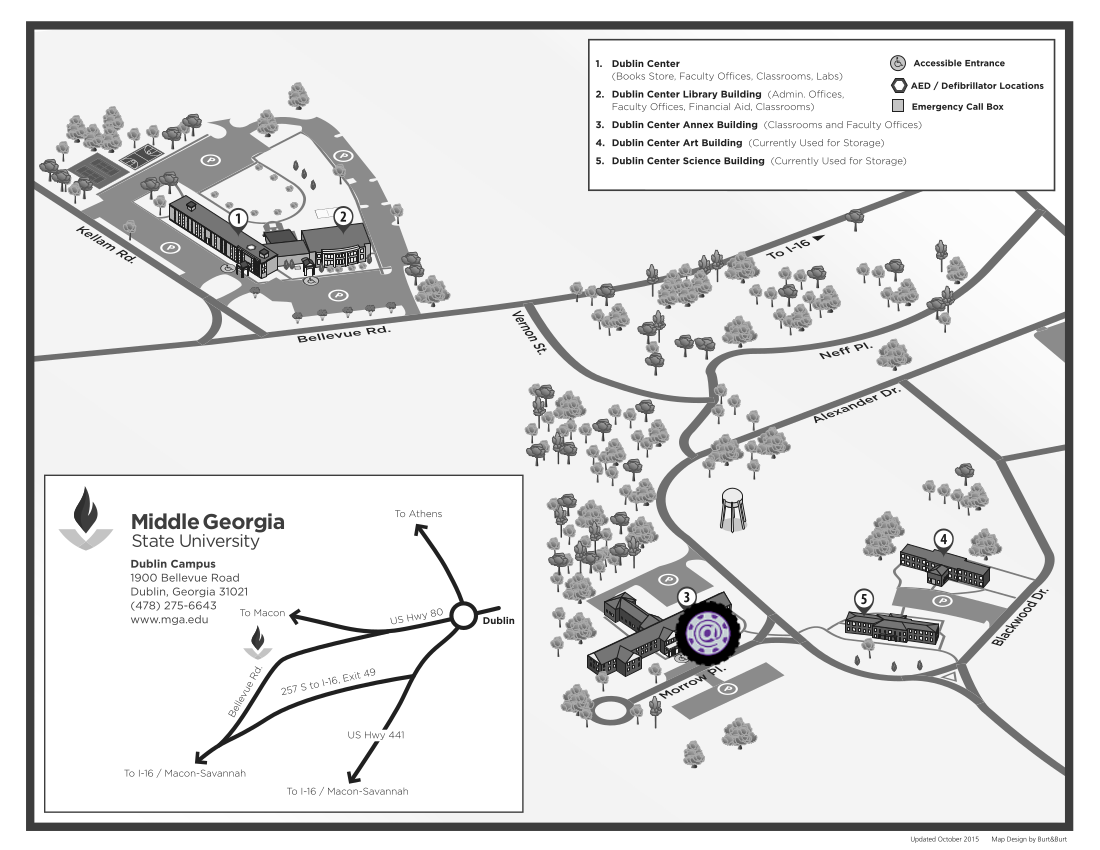
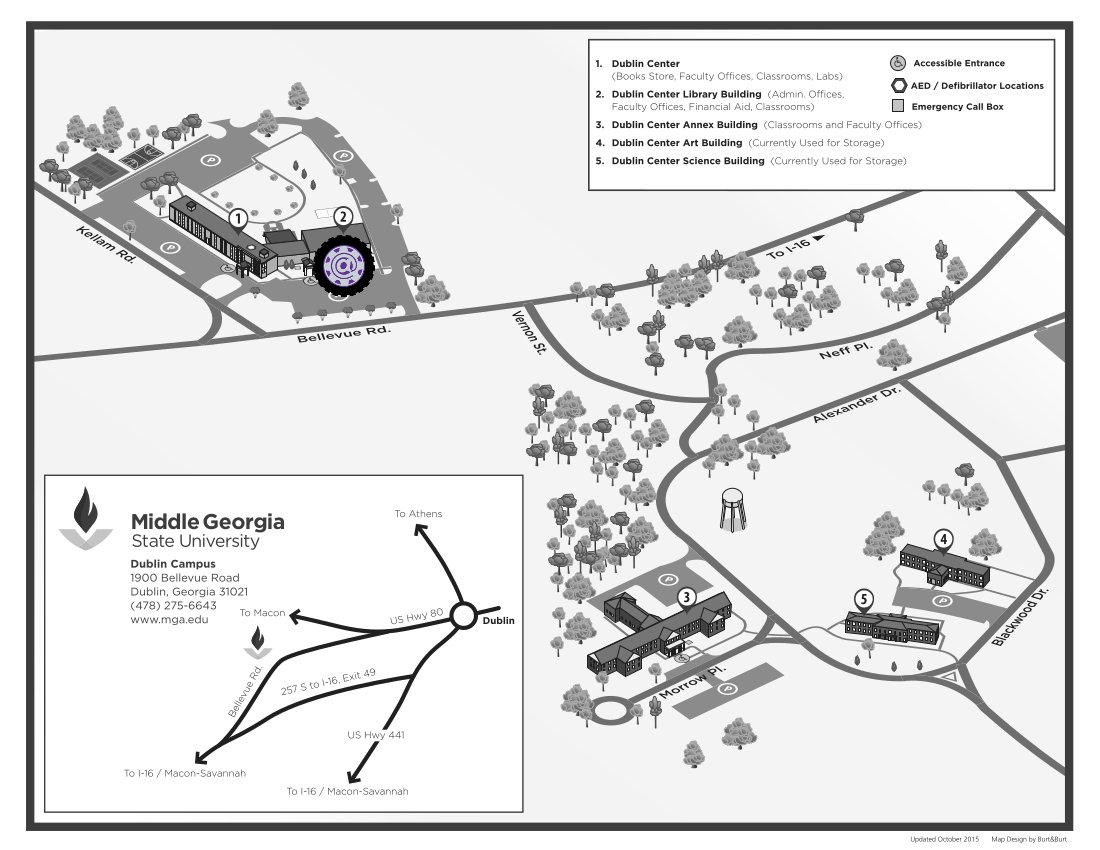
map changes and other small fixes

Changed region(s): [[0.5873, 0.7035, 0.68, 0.7953], [0.2782, 0.2753, 0.34, 0.3671]]

diff --git a/styles/style.css b/styles/style.css
@@ -300,6 +300,10 @@ table{
   table-layout: fixed; 
   overflow-x:auto;
 }
+img {
+    max-width: 100%;
+    height: auto;
+}
 
 
 

diff --git a/dropoffpoints.php b/dropoffpoints.php
@@ -57,11 +57,11 @@
       
               <h5  class="welcomeHeader"> Memorial Hall and Alderman Hall, <br> Cochran </h5>
               <img id="cochranLittleMap" src="images/maps/cochranmap.png" alt="Cochran Campus" width="800" height="700" data-toggle="modal" data-target="#cochranModal">
-              <h5  class="welcomeHeader"> Dublin Center Annex Building,<br> Dublin </h5>
+              <h5  class="welcomeHeader"> Dublin Center Library Building,<br> Dublin </h5>
               <img id="dublinLittleMap" src="images/maps/dublinmap.png" alt="Dublin Campus" width="300" height="200" data-toggle="modal" data-target="#dublinModal">
              </div>
               <div class="col-sm-4 col-xs-4">
-              <h5  class="welcomeHeader"> Corporate Hangar,<br> Eastman</h5>
+              <h5  class="welcomeHeader"> Main Campus,<br> Eastman</h5>
               <img id="eastmanLittleMap" src="images/maps/eastmanmap.png" alt="Eastman Campus" width="300" height="200" data-toggle="modal" data-target="#eastmanModal">
               <h5  class="welcomeHeader"> Charles H. Jones and Student Life Center, Macon</h5>
               <img id="maconLittleMap" src="images/maps/maconmap.png" alt="Macon Campus" width="300" height="200" data-toggle="modal" data-target="#maconModal">
@@ -103,7 +103,7 @@
                 <div class="modal-body">
                   <h1 class="text-center">Dublin Campus:</h1><br>
                   <img class="modal-content" id="dublinBigMap" src="images/maps/dublinmap.png">
-                  <h1 class="text-center">Dublin Center Annex Building, Dublin Campus</h1><br>
+                  <h1 class="text-center">Dublin Center Library Building, Dublin Campus</h1><br>
                   <img src="images/ridesharelocations/dublinmeeting.jpg" alt="Dublin Center Annex Building">
                 </div>
               </div>
@@ -120,7 +120,7 @@
                 <div class="modal-body">
                   <h1 class="text-center">Eastman Campus:</h1><br>
                   <img class="modal-content" id="eastmanBigMap" src="images/maps/eastmanmap.png">
-                  <h1 class="text-center">Corporate Hangar, Eastman Campus</h1><br>
+                  <h1 class="text-center">Main Campus, Eastman Campus</h1><br>
                   <img src="images/ridesharelocations/eastmanmeeting.jpg" alt="Eastman">
                 </div>
               </div>
@@ -168,7 +168,7 @@
         <div id="footer" class="text-center center">
             <hr>
             Copyright &copy; 2017 Knight Rider<br>
-            Website Development by <a href="mailto:MGAKnightRiders@mga.edu">Knight Rider</a>
+            Website Development by <a href="mailto:mgaknightriders@gmail.com">Knight Rider</a>
         </div>
 
     </div></div>

diff --git a/help.php b/help.php
@@ -51,11 +51,11 @@
       
               <h5  class="welcomeHeader"> Memorial Hall and Alderman Hall, <br> Cochran </h5>
               <img id="cochranLittleMap" src="images/maps/cochranmap.png" alt="Cochran Campus" width="800" height="700" data-toggle="modal" data-target="#cochranModal">
-              <h5  class="welcomeHeader"> Dublin Center Annex Building,<br> Dublin </h5>
+              <h5  class="welcomeHeader"> Dublin Center Library Building,<br> Dublin </h5>
               <img id="dublinLittleMap" src="images/maps/dublinmap.png" alt="Dublin Campus" width="300" height="200" data-toggle="modal" data-target="#dublinModal">
              </div>
               <div class="col-sm-4 col-xs-4">
-              <h5  class="welcomeHeader"> Corporate Hangar,<br> Eastman</h5>
+              <h5  class="welcomeHeader"> Main Campus,<br> Eastman</h5>
               <img id="eastmanLittleMap" src="images/maps/eastmanmap.png" alt="Eastman Campus" width="300" height="200" data-toggle="modal" data-target="#eastmanModal">
               <h5  class="welcomeHeader"> Charles H. Jones and Student Life Center, Macon</h5>
               <img id="maconLittleMap" src="images/maps/maconmap.png" alt="Macon Campus" width="300" height="200" data-toggle="modal" data-target="#maconModal">
@@ -97,7 +97,7 @@
                 <div class="modal-body">
                   <h1 class="text-center">Dublin Campus:</h1><br>
                   <img class="modal-content" id="dublinBigMap" src="images/maps/dublinmap.png">
-                  <h1 class="text-center">Dublin Center Annex Building, Dublin Campus</h1><br>
+                  <h1 class="text-center">Dublin Center Library Building, Dublin Campus</h1><br>
                   <img src="images/ridesharelocations/dublinmeeting.jpg" alt="Dublin Center Annex Building">
                 </div>
               </div>
@@ -114,7 +114,7 @@
                 <div class="modal-body">
                   <h1 class="text-center">Eastman Campus:</h1><br>
                   <img class="modal-content" id="eastmanBigMap" src="images/maps/eastmanmap.png">
-                  <h1 class="text-center">Corporate Hangar, Eastman Campus</h1><br>
+                  <h1 class="text-center">Main Campus, Eastman Campus</h1><br>
                   <img src="images/ridesharelocations/eastmanmeeting.jpg" alt="Eastman">
                 </div>
               </div>
@@ -273,7 +273,7 @@
         <div id="footer" class="text-center center">
             <hr>
             Copyright &copy; 2017 Knight Rider<br>
-            Website Development by <a href="mailto:MGAKnightRiders@mga.edu">Knight Rider</a>
+            Website Development by <a href="mailto:mgaknightriders@gmail.com">Knight Rider</a>
         </div>
 
     </div></div>

diff --git a/registration.php b/registration.php
@@ -254,6 +254,8 @@
                   <div class="text-center">
 
                     <label><input type="checkbox" value="agree" required>&nbsp;I have read and agree to the Terms &amp; Conditions.</label><br><br>
+                    <label><input type="checkbox" value="agree" required>&nbsp;Driver Training Checkbox</label><br><br>
+                  
                     <input type="submit" class="btn btn-primary" name="submitRegistrationButton" value="Submit Registration"><br>
                   </div>
                 </form>
@@ -264,7 +266,7 @@
         <div id="footer" class="text-center center">
             <hr>
             Copyright &copy; 2017 Knight Rider<br>
-            Website Development by <a href="mailto:MGAKnightRiders@mga.edu">Knight Rider</a>
+            Website Development by <a href="mailto:mgaknightriders@gmail.com">Knight Rider</a>
         </div>
 
       </div></div>

diff --git a/login.php b/login.php
@@ -233,7 +233,7 @@ if ($_SERVER['REQUEST_METHOD'] == 'POST')
       <div id="footer" class="text-center center">
         <hr>
         Copyright &copy; 2017 Knight Rider<br>
-        Website Development by <a href="mailto:MGAKnightRiders@mga.edu">Knight Rider</a>
+        Website Development by <a href="mailto:mgaknightriders@gmail.com">Knight Rider</a>
       </div>
     </div></div>
   </body>

diff --git a/profile.php b/profile.php
@@ -487,7 +487,7 @@ include ('mysqli_connect.php');
       <div id="footer" class="text-center center">
           <hr>
           Copyright &copy; 2017 Knight Rider<br>
-          Website Development by <a href="mailto:MGAKnightRiders@mga.edu">Knight Rider</a>
+          Website Development by <a href="mailto:mgaknightriders@gmail.com">Knight Rider</a>
       </div>
 
     </div></div>

diff --git a/driver.php b/driver.php
@@ -626,7 +626,7 @@ session_start();
         <div id="footer" class="text-center center">
             <hr>
             Copyright &copy; 2017 Knight Rider<br>
-            Website Development by <a href="mailto:MGAKnightRiders@mga.edu">Knight Rider</a>
+            Website Development by <a href="mailto:mgaknightriders@gmail.com">Knight Rider</a>
         </div>
 
     </div></div>

diff --git a/passenger.php b/passenger.php
@@ -162,7 +162,7 @@ session_start();
       <div id="footer" class="text-center center">
           <hr>
           Copyright &copy; 2017 Knight Rider<br>
-          Website Development by <a href="mailto:MGAKnightRiders@mga.edu">Knight Rider</a>
+          Website Development by <a href="mailto:mgaknightriders@gmail.com">Knight Rider</a>
       </div>
 
     </div></div>

diff --git a/template.php b/template.php
@@ -55,7 +55,7 @@
       <div id="footer" class="text-center center">
           <hr>
           Copyright &copy; 2017 MGA Knight Riders<br>
-          Website Development by <a href="mailto:MGAKnightRiders@mga.edu">MGA Knight Riders</a>
+          Website Development by <a href="mailto:mgaknightriders@gmail.com">MGA Knight Riders</a>
       </div>
 
     </div></div>

diff --git a/aboutus.php b/aboutus.php
@@ -67,7 +67,7 @@
       <div id="footer" class="text-center center">
           <hr>
           Copyright &copy; 2017 Knight Rider<br>
-          Website Development by <a href="mailto:MGAKnightRiders@mga.edu">Knight Rider</a>
+          Website Development by <a href="mailto:mgaknightriders@gmail.com">Knight Rider</a>
       </div>
 
     </div></div>

diff --git a/welcome.php b/welcome.php
@@ -87,7 +87,7 @@
       <div id="footer" class="text-center center">
           <hr>
           Copyright &copy; 2017 Knight Rider<br>
-          Website Development by <a href="mailto:MGAKnightRiders@mga.edu">Knight Rider</a>
+          Website Development by <a href="mailto:mgaknightriders@gmail.com">Knight Rider</a>
       </div>
 
     </div></div>
